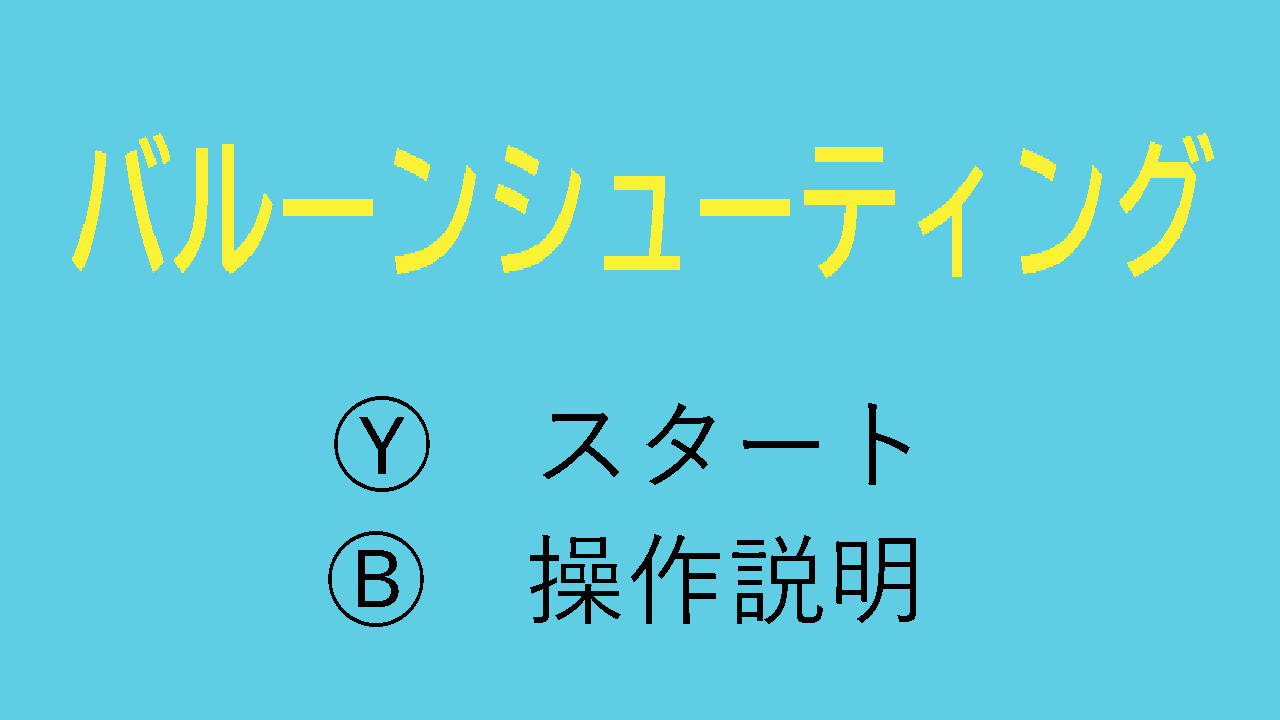
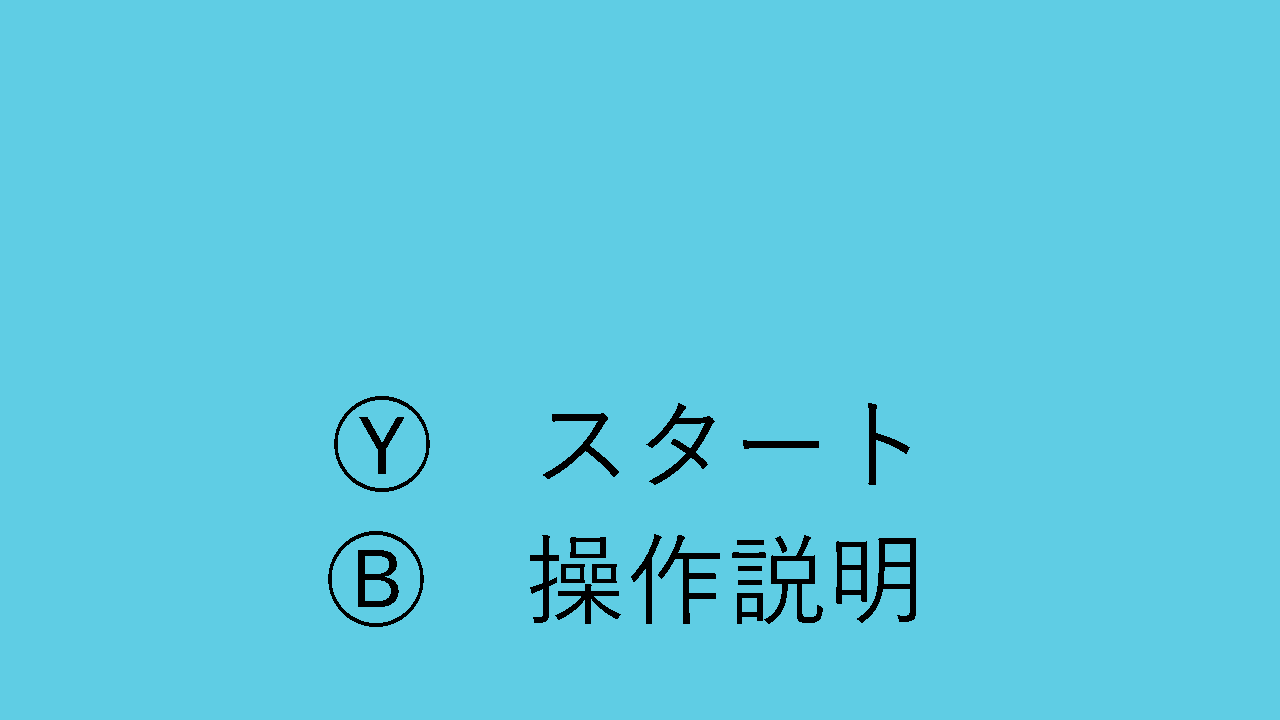
完成

diff --git a/DirectXGame/Player.cpp b/DirectXGame/Player.cpp
@@ -88,23 +88,24 @@ void Player::Update() {
 		return false;
 	});
 
-	// キャラクターの移動ベクトル
-	Vector3 move = {0, 0, 0};
+	//// キャラクターの移動ベクトル
+	//Vector3 move = {0, 0, 0};
 
-	// キャラクターの移動の速さ
-	const float kCharacterSpeed = 0.2f;
+	//// キャラクターの移動の速さ
+	//const float kCharacterSpeed = 0.2f;
 
-	// ゲームパッドの状態を得る変数
-	XINPUT_STATE joyState;
+	//// ゲームパッドの状態を得る変数
+	//XINPUT_STATE joyState;
 
-	// ゲームパッド状態取得
-	if (Input::GetInstance()->GetJoystickState(0, joyState)) {
+	//// ゲームパッド状態取得
+	//if (Input::GetInstance()->GetJoystickState(0, joyState)) {
 
-		move.x += (float)joyState.Gamepad.sThumbLX / SHRT_MAX * kCharacterSpeed;
+	//	move.x += (float)joyState.Gamepad.sThumbLX / SHRT_MAX * kCharacterSpeed;
 
-		move.y += (float)joyState.Gamepad.sThumbLY / SHRT_MAX * kCharacterSpeed;
-	}
+	//	move.y += (float)joyState.Gamepad.sThumbLY / SHRT_MAX * kCharacterSpeed;
+	//}
 
+	
 	UpdateFloatingGimmick();
 
 	Move();
@@ -150,6 +151,16 @@ void Player::Move(){
 		move.y = 0.0f;
 		move.z = (float)joyState.Gamepad.sThumbLY / SHRT_MAX * kCharacterSpeed;
 
+		move = Normalize(move);
+
+		move.x *= kCharacterSpeed;
+		move.y *= kCharacterSpeed;
+		move.z *= kCharacterSpeed;
+		Matrix4x4 rotateMatrix = MakeRotateYMatrix(viewProjection_->rotation_.y);
+
+		move = TransformNormal(move, rotateMatrix);
+
+		worldTransform_.rotation_.y = std::atan2(move.x, move.z);
 
 		//移動
 		Add(worldTransform_.translation_, move);

diff --git a/DirectXGame/scene/Title.cpp b/DirectXGame/scene/Title.cpp
@@ -1,6 +1,7 @@
 #include "Title.h"
 #include "TextureManager.h"
 #include <cassert>
+#include <Mymath.h>
 
 Title::Title() {}
 
@@ -12,7 +13,9 @@ void Title::Initialize() {
 	input_ = Input::GetInstance();
 	audio_ = Audio::GetInstance();
 	TextureHandle_ = TextureManager::Load("UI/Title.png");
+	TextureHandle1_ = TextureManager::Load("UI/Title1.png");
 	sprite_ = Sprite::Create(TextureHandle_, {0, 0});
+	sprite1_ = Sprite::Create(TextureHandle1_, {0, 0});
 
 	// トランジション用のスプライト
 	transitionSprite_.reset(Sprite::Create(0, {0.0f, 0.0f}));
@@ -35,6 +38,27 @@ void Title::Update() {
 			}
 		}
 	}
+
+	easingParameter += 1.0f / 60.0f;
+
+
+	if (easingParameter > 1.0f) {
+		easingParameter = 0.0f;
+
+		if (startPosition == 0.0f) {
+			startPosition = 100.0f;
+			endPosition = 0.0f;
+		} else {
+			startPosition = 0.0f;
+			endPosition = 100.0f;
+		}
+
+	}
+
+	position_.y = startPosition + (endPosition - startPosition) * easeOutBack(easingParameter);
+
+	sprite1_->SetPosition(position_);
+
 
 	// FadeInの処理
 	if (isFadeIn_) {
@@ -98,6 +122,7 @@ void Title::Draw() {
 	/// </summary>
 
 	sprite_->Draw();
+	sprite1_->Draw();
 
 	transitionSprite_->Draw();
 

diff --git a/DirectXGame/Mymath.cpp b/DirectXGame/Mymath.cpp
@@ -316,7 +316,7 @@ Vector3 Transform(const Vector3& vector, const Matrix4x4& matrix) {
 	return result;
 }
 
-Matrix4x4 MakeRotateYMatrix(float radian) {
+Matrix4x4 MakeRotateYMatrix(const float radian) {
 	Matrix4x4 result;
 	result.m[0][0] = std::cos(radian);
 	result.m[0][1] = 0;
@@ -339,4 +339,12 @@ Matrix4x4 MakeRotateYMatrix(float radian) {
 	result.m[3][3] = 1;
 
 	return result;
+}
+
+//イージング
+float easeOutBack(float x) {
+	const float c1 = 1.70158f;
+	const float c3 = c1 + 1.0f;
+
+	return 1.0f + c3 * pow(x - 1.0f, 3.0f) + c1 * pow(x - 1.0f, 2.0f);
 }

diff --git a/DirectXGame/scene/Title.h b/DirectXGame/scene/Title.h
@@ -53,12 +53,22 @@ private: // メンバ変数
 	Input* input_ = nullptr;
 	Audio* audio_ = nullptr;
 	Sprite* sprite_ = nullptr;
+	Sprite* sprite1_ = nullptr;
 	uint32_t TextureHandle_ = 0;
+	uint32_t TextureHandle1_ = 0;
 	bool ChangeScene = false;
 	int32_t NextScene = 0;
 	/// <summary>
 	/// ゲームシーン用
 	/// </summary>
+	
+	Vector2 position_ = {0, 0};
+
+	float easingParameter = 0.0f;
+
+	float startPosition = 0.0f;
+
+	float endPosition = 100.0f;
 
 	// トランジション用のスプライト
 	std::unique_ptr<Sprite> transitionSprite_ = nullptr;

diff --git a/DirectXGame/Player.h b/DirectXGame/Player.h
@@ -2,6 +2,7 @@
 #include "Input.h"
 #include "Model.h"
 #include "WorldTransform.h"
+#include "ViewProjection.h"
 #include "PlayerBullet.h"
 
 class Player {
@@ -23,6 +24,11 @@ public:
 	void InitializeFloatingGimmick();
 
 	void UpdateFloatingGimmick();
+
+	void SetViewProjection(const ViewProjection* viewProjection) {
+		viewProjection_ = viewProjection;
+	}
+
 
 	void Reset();
 
@@ -48,6 +54,9 @@ private:
 	uint32_t textureHandle_;
 	Input* input_ = nullptr;
 
+	const ViewProjection* viewProjection_ = nullptr;
+
+	
 	// 弾
 	std::list<PlayerBullet*> bullets_;
 

diff --git a/DirectXGame/scene/GameScene.cpp b/DirectXGame/scene/GameScene.cpp
@@ -49,6 +49,8 @@ void GameScene::Initialize() {
 	followcamera_->Initialize();
 	followcamera_->SetTarget(&player_->GetWorldTransform());
 
+	player_->SetViewProjection(&followcamera_->GetViewProjection());
+
 	std::random_device seedGenerator;
 	randomEngine = std::mt19937(seedGenerator());
 

diff --git a/DirectXGame/Mymath.h b/DirectXGame/Mymath.h
@@ -33,4 +33,8 @@ Matrix4x4 MakeViewportMatrix(
 
 Vector3 Transform(const Vector3& vector, const Matrix4x4& matrix);
 
-Matrix4x4 MakeRotateYMatrix(float radian);
+Matrix4x4 MakeRotateYMatrix(const float radian);
+
+float easeOutBack(float x);
+
+
